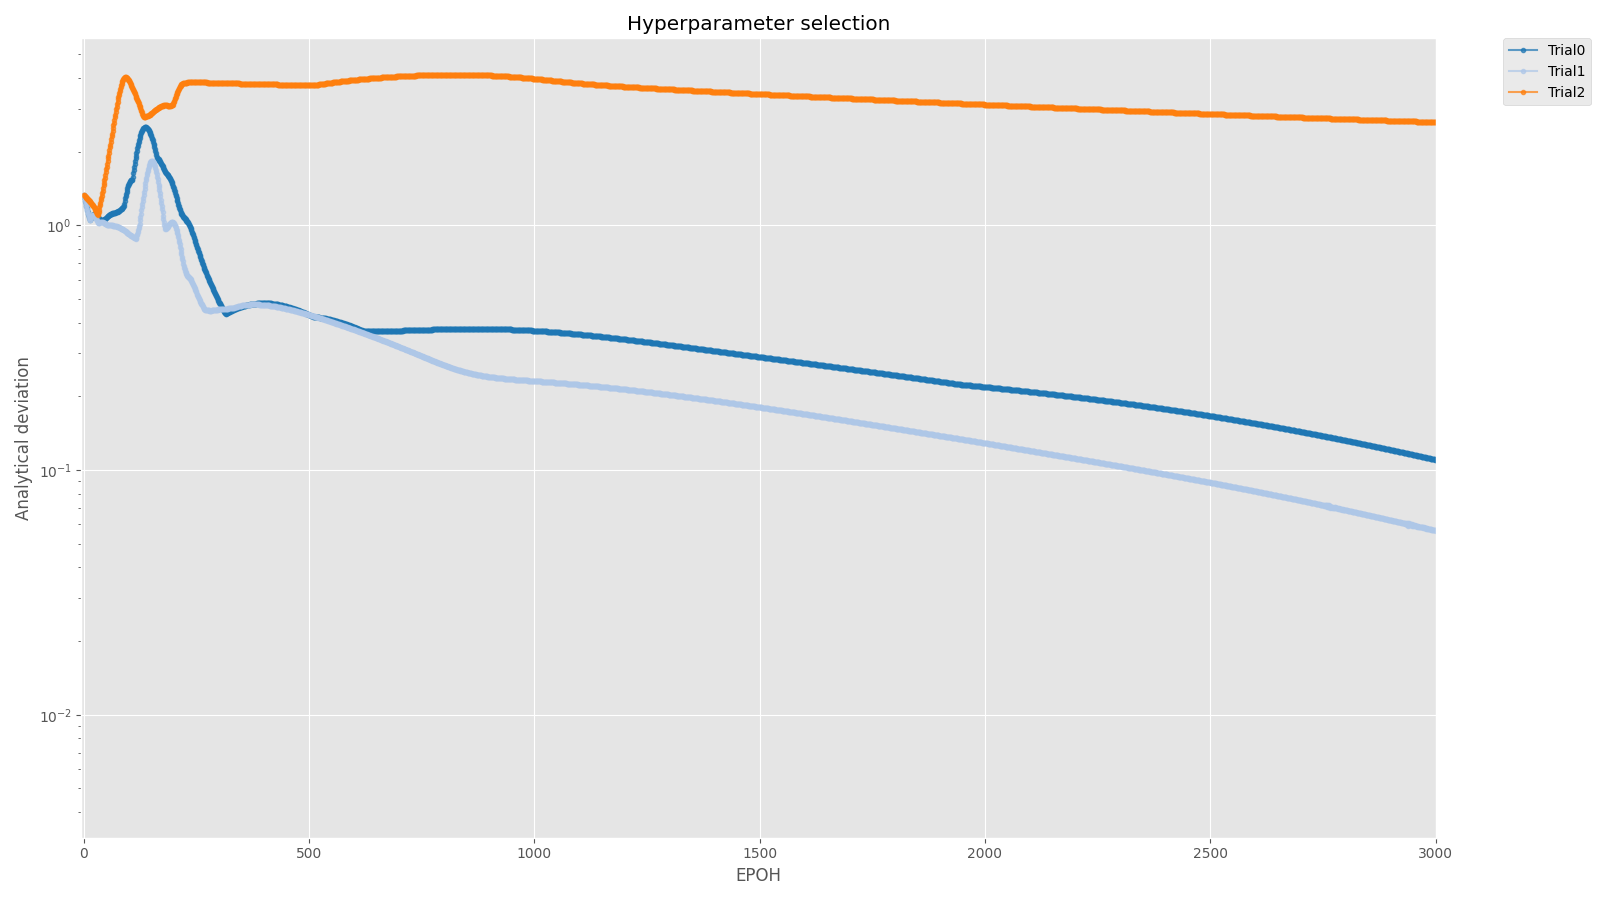
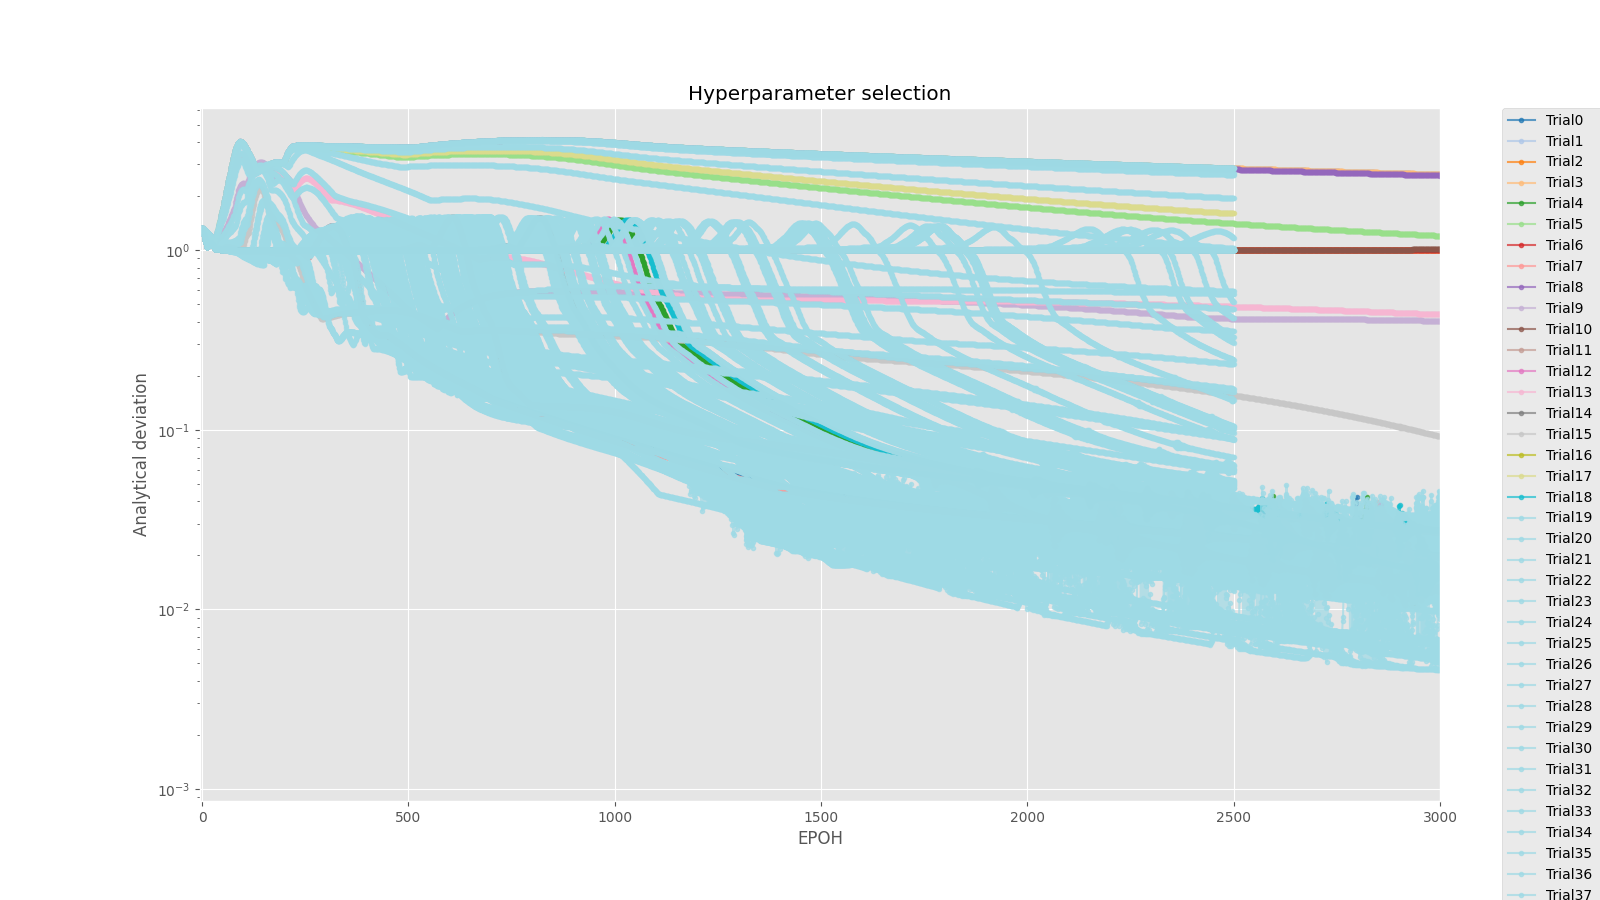
ready

diff --git a/src/Neural_Network.py b/src/Neural_Network.py
@@ -284,7 +284,7 @@ if __name__ == "__main__":
                 n_startup_trials=10, n_warmup_steps=2500, interval_steps=300
                 ),
                 )
-        study.optimize(objective, n_trials=3)
+        study.optimize(objective, n_trials=200)
         study_show(study)
     else:
         neural_model = simpleModel().to(device)
